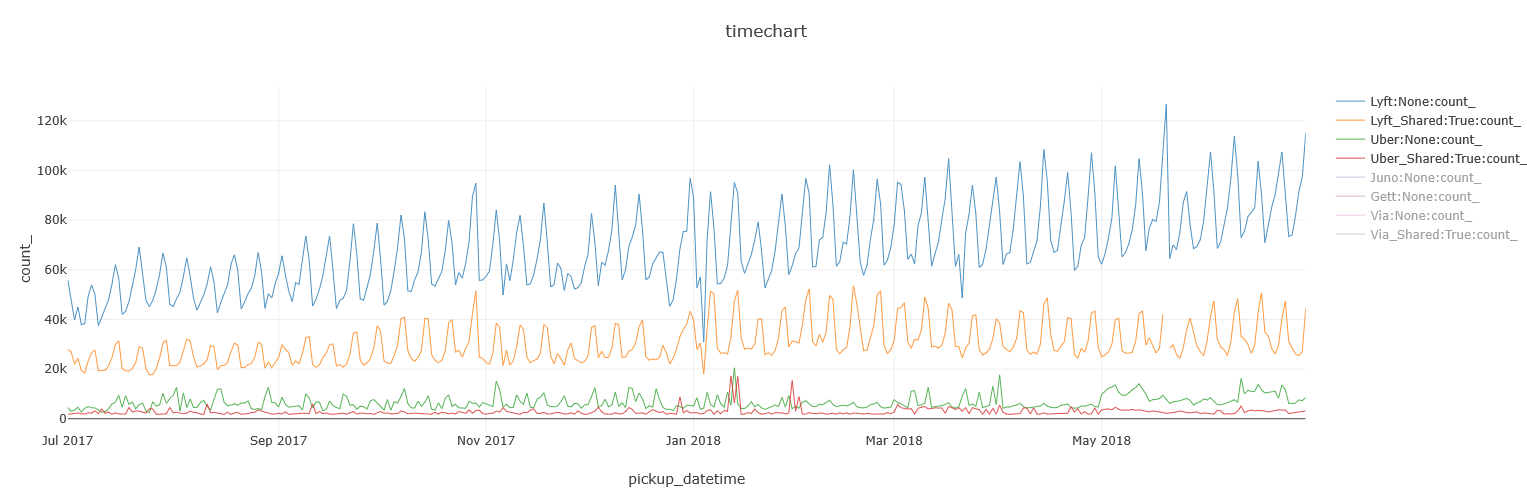
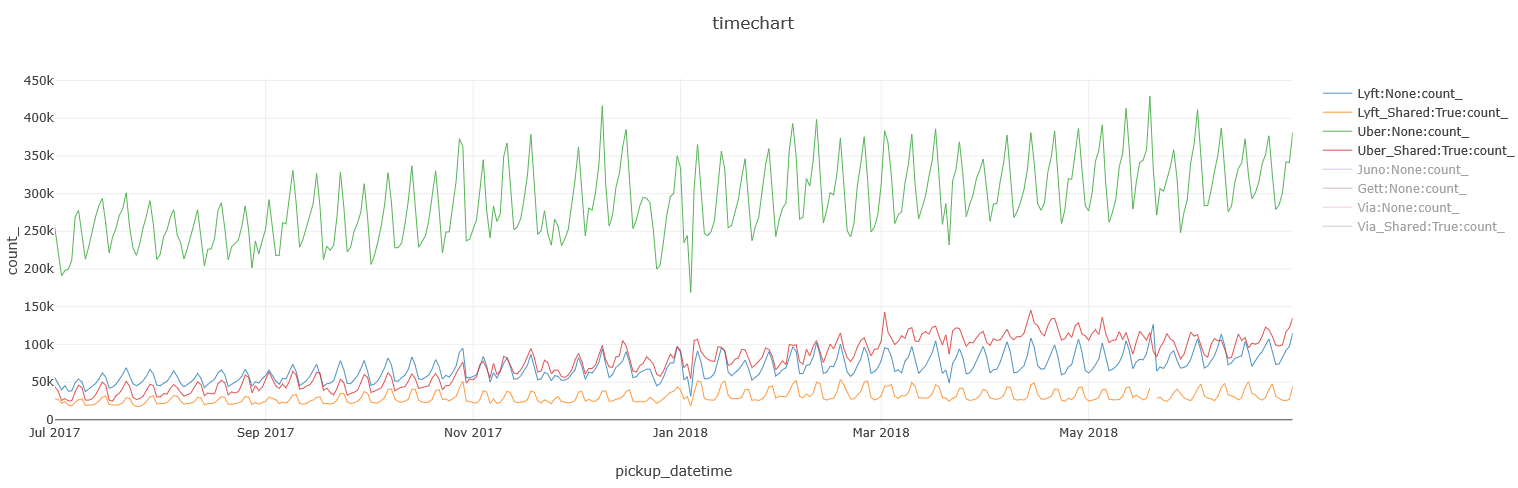
update NYC Taxi analysis

diff --git a/blog-posts/analyzing-nyc-taxi-rides.md b/blog-posts/analyzing-nyc-taxi-rides.md
@@ -232,7 +232,7 @@ private one, which makes sense as it is a *ride-sharing* company:
 
 ![](../resources/images/nyc-taxi-via.png)
 
-While for Lyft and Uber, it's the other way around:
+While for Lyft and Uber, it's the other way around, with Uber's private service far ahead:
 
 ![](../resources/images/nyc-taxi-shared-uber-lyft.png)
 
